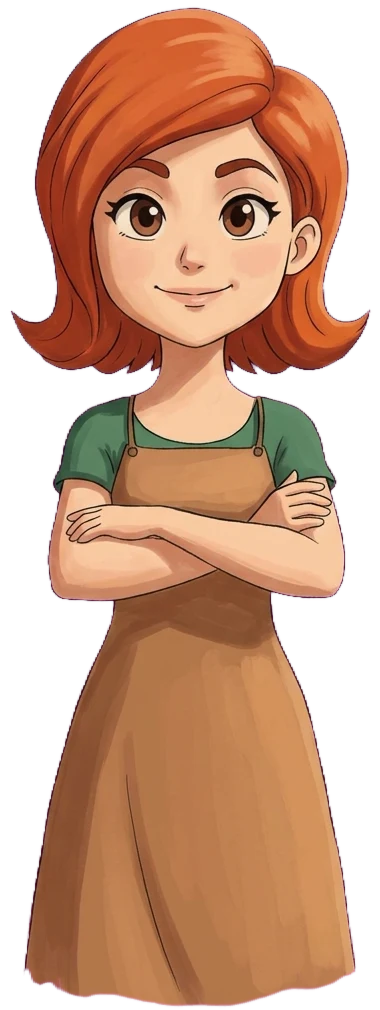
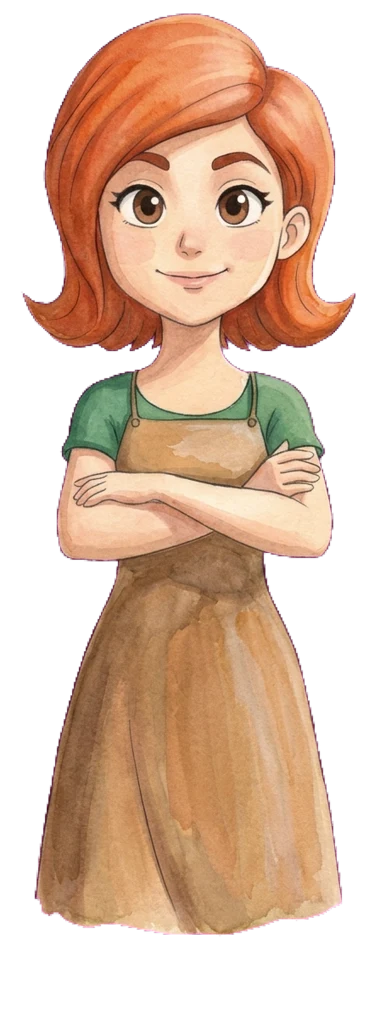
Leny repainted in watercolour to match the rest of the page
Same pose, hair, shirt and apron, now in soft watercolour without hard
outlines. Keyed from magenta and framed like the previous cut so she still
leans on the rail; the arms band is re-fitted to the new painting.

diff --git a/namit-gid-site/index.html b/namit-gid-site/index.html
@@ -14,7 +14,7 @@
 <link rel="preconnect" href="https://fonts.gstatic.com" crossorigin>
 <link href="https://fonts.googleapis.com/css2?family=Atkinson+Hyperlegible+Next:ital,wght@0,400;0,600;1,400&family=Young+Serif&display=swap" rel="stylesheet">
 <link rel="preload" as="image" href="assets/img/byaringan-painted-1680.webp">
-<link rel="stylesheet" href="assets/css/site.css?v=36">
+<link rel="stylesheet" href="assets/css/site.css?v=37">
 <script>
   /* Decide the intro before first paint so nothing flashes. The full intro
      plays on every visit; only reduced motion or data saver skip it. */
@@ -108,7 +108,7 @@
           <circle class="ring r3" r="49.6" pathLength="1"/>
         </g>
       </svg>
-      <div class="leny-clip"><img class="emblem" id="emblem" src="assets/img/leny-painted.webp" width="380" height="1010" alt="Leny, who cooks at Namit Gid"></div>
+      <div class="leny-clip"><img class="emblem" id="emblem" src="assets/img/leny-painted.webp?v=2" width="380" height="1010" alt="Leny, who cooks at Namit Gid"></div>
       <div class="plank" id="plank" aria-hidden="true">
         <img class="sign-img" src="assets/img/sign-painted.webp" width="1000" height="809" alt="">
         <!-- The Long Beach view, mounted on the board. The intro lands on this. -->
@@ -124,7 +124,7 @@
           </div>
         </div>
       </div>
-      <img class="emblem-arms" id="lenyArms" src="assets/img/leny-painted.webp" width="380" height="1010" alt="" aria-hidden="true">
+      <img class="emblem-arms" id="lenyArms" src="assets/img/leny-painted.webp?v=2" width="380" height="1010" alt="" aria-hidden="true">
     </div>
 
     <div class="hero-copy" id="heroCopy">

diff --git a/namit-gid-site/assets/css/site.css b/namit-gid-site/assets/css/site.css
@@ -110,7 +110,7 @@ html.intro .intro-skip { display: block; }
 .badge .r3 { stroke: #E9B66B; stroke-width: 3.4; }
 .leny-clip { position: absolute; inset: 0; clip-path: inset(-60% -20% 0 -20%); }
 .emblem, .emblem-arms { position: absolute; left: 31%; width: 38%; top: -14.9%; height: auto; }
-.emblem-arms { clip-path: inset(45% 0 40.6% 0); pointer-events: none; }
+.emblem-arms { clip-path: inset(43.5% 0 41% 0); pointer-events: none; }
 .plank { position: absolute; left: 0; top: 28.9%; width: 100%; aspect-ratio: 1000 / 809; transform-origin: 50% 10%; }
 .sign-img { width: 100%; height: 100%; filter: drop-shadow(0 6px 6px rgba(60, 38, 20, .25)); }
 .plank > .frame-slot { position: absolute; left: 14.4%; top: 34%; width: 76%; height: 56%; }
